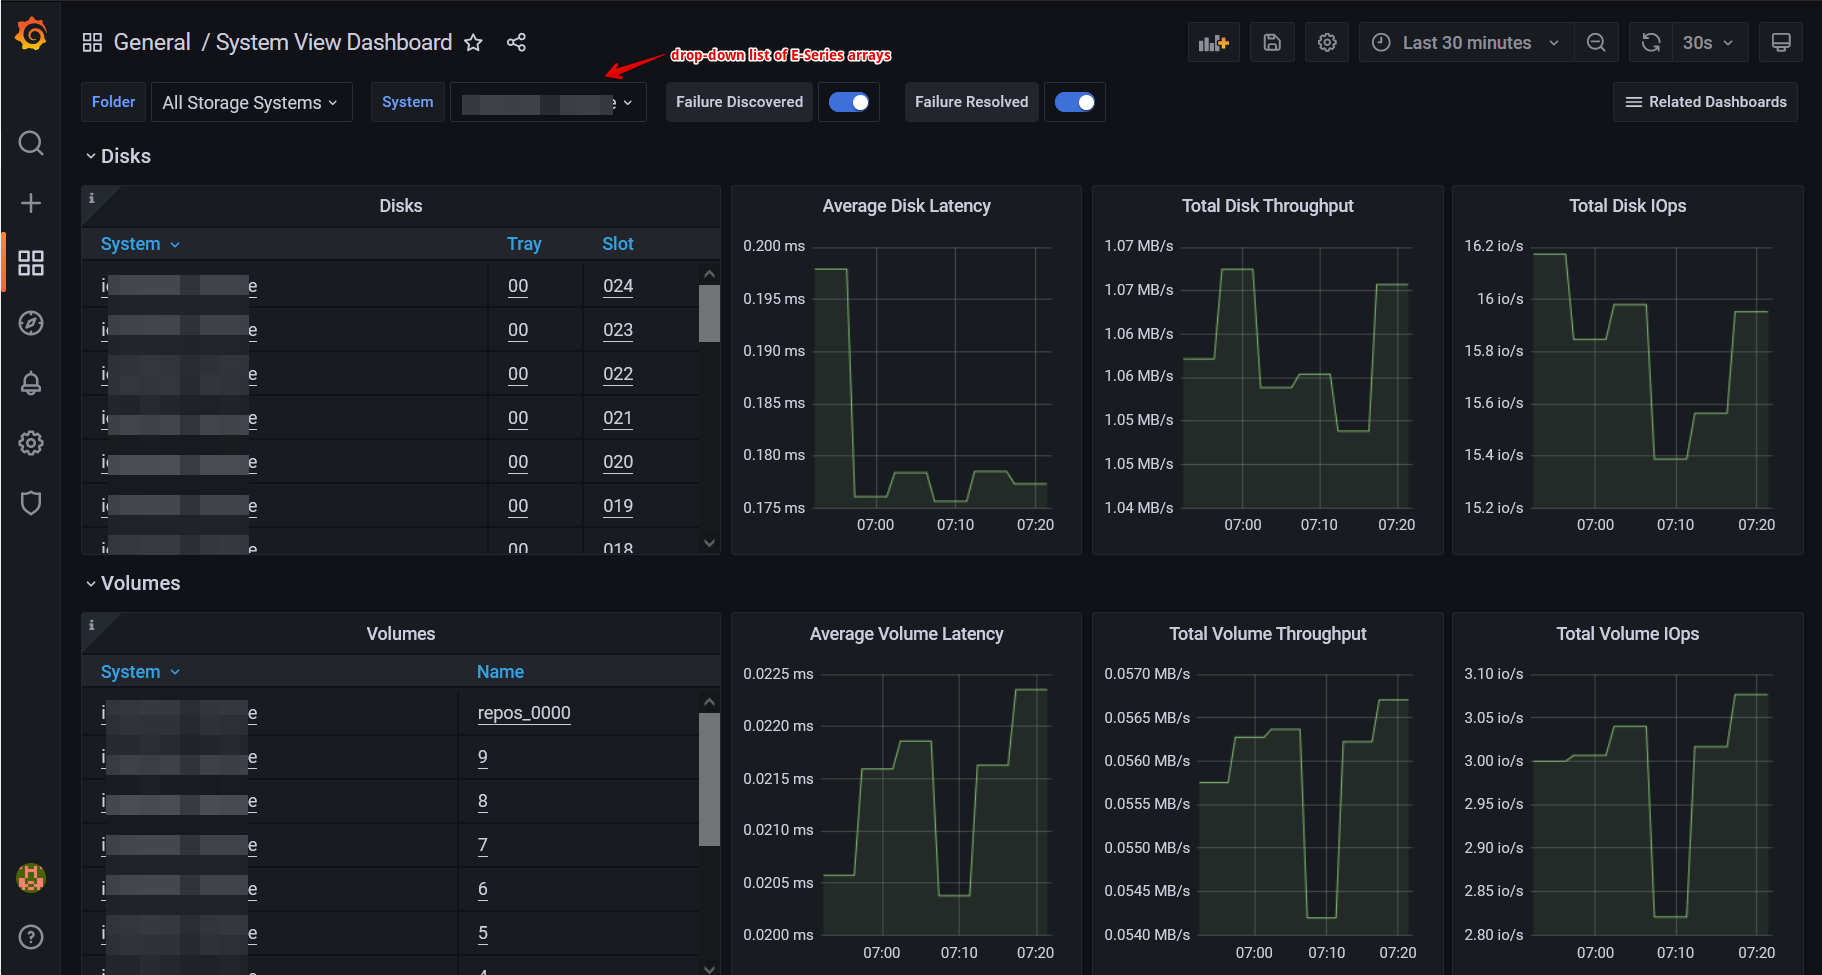
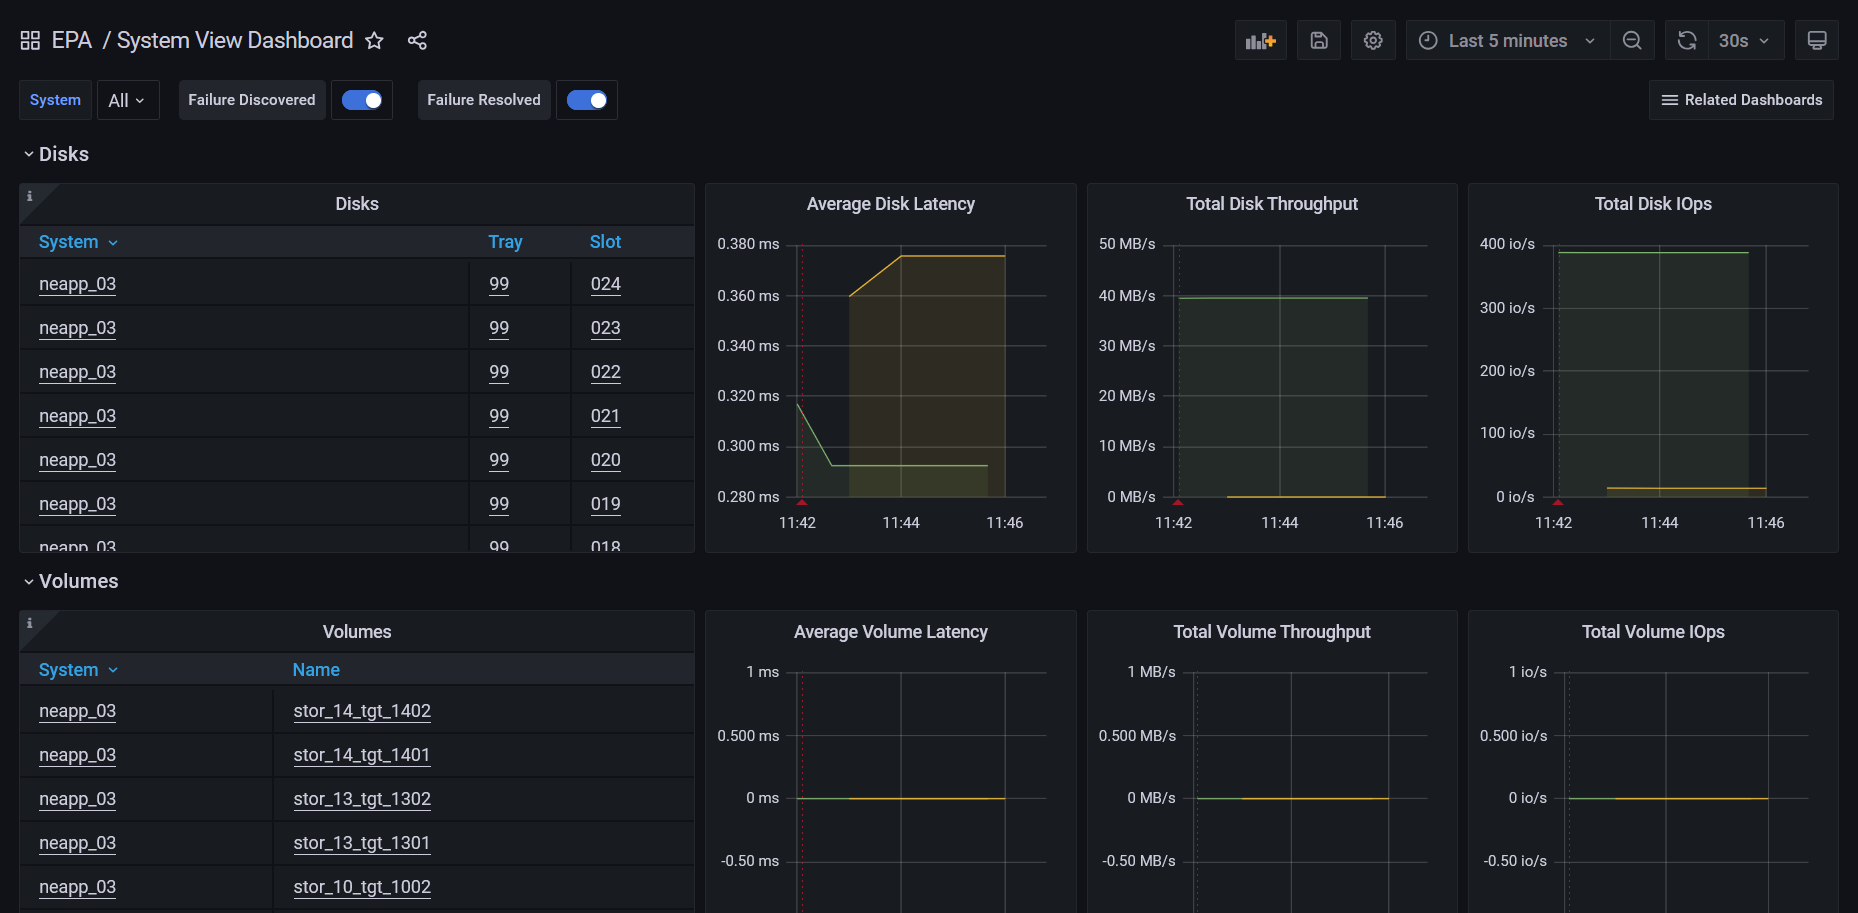
Move screenshots to separate file, refresh screenshots, finalize Changelog in README.md

diff --git a/README.md b/README.md
@@ -14,9 +14,8 @@
     - [Execute containerized collector.py](#execute-containerized-collectorpy)
     - [Adjust firewall settings for InfluxDB and Grafana ports](#adjust-firewall-settings-for-influxdb-and-grafana-ports)
     - [Add or remove a monitored array](#add-or-remove-a-monitored-array)
-    - [Update password of a monitor account](#update-password-of-a-monitor-account)
+    - [Update password of monitor account](#update-password-of-monitor-account)
     - [Grafana dashboards](#grafana-dashboards)
-  - [Sample Grafana screenshots](#sample-grafana-screenshots)
   - [FAQs](#faqs)
   - [Changelog](#changelog)
 
@@ -40,6 +39,8 @@ Each collector uses own credentials and can (but doesn't have to) write data to 
 - Interfaces
 - E-Series MEL events
 - Environmental (temperature and power consumption)
+
+Sample screenshots are available [here](./SCREENSHOTS.md).
 
 ## Requirements
 
@@ -95,7 +96,7 @@ services:
   collector-R26U25-EF600:
     image: epa/collector:${TAG}
     container_name: R26U25-EF600
-    mem_limit: 64m
+    mem_limit: 256m
     restart: unless-stopped
     logging:
       driver: "json-file"
@@ -116,6 +117,10 @@ services:
       # Optional: Create database and exit (true/1 = enable); remember to revert to 'false' after successful run
       # - CREATE_DB=false      
 ```
+
+Note that, if you create multiple collectors in the same docker-compose.yaml, only *one* of `DB_NAME` (as each collector may have it different) will be applied in Grafana Data Source configuration. If you're in this situation simply configure just one `DB_NAME` first (you don't have to do anything if you don't mind to have the first DB instance named `eseries`) and then use InfluxDB CLI or the related instructions from the FAQs (on how to do it from collector.py) to create another DB and another InfluxDB Data Source to Grafana. Then you can start all Collector containers. 
+
+You can also create additional database instances in InfluxDB from the CLI (instructions above), but you won't be able to if you modify Docker Compose to not expose InfluxDB externally. That's why it's easier to use the approach that runs collector.py in Docker - that will work for either Compose-internal or external InfluxDB.
 
 #### Deploy
 
@@ -160,13 +165,15 @@ Kubernetes users should skim through this page to get the idea how EPA works, an
 
 ### Execute containerized collector.py 
 
+If you want to run containerized collector as CLI program rather than service, try this and add correct parameters from `docker-compose.yaml`. 
+
 Mind the project/container name and version!
 
 ```sh
 docker run --rm --network eseries_perf_analyzer \
   --entrypoint python3 \
   epa/collector:3.4.0 collector.py -h
-# or, since we don't need to specify network to get help
+# or, if you just want to view help
 # docker run --rm epa/collector:3.4.0 -h
 ```
 
@@ -178,13 +185,20 @@ InfluxDB is accessible to external clients at 8086/tcp. The idea is to be able t
 
 ### Add or remove a monitored array
 
-Add another collector service (e.g. `collector-ef300c`) to `docker-compose.yaml`, build it and start it. You may use the same (existing) or own (new) InfluxDB database instance. Enter the `utils` container to create it. 
+Add another collector service (e.g. `collector-ef300c`) to `docker-compose.yaml`, build it and start it. You may use the same (existing) or own (new) InfluxDB database instance. Enter the `utils` container or use Collector to create it in advance. You may also just run collector with `--dbName` to have it created automatically.
 
-To remove a collector that monitors an array, run `docker compose down <collector-name>`, enter the `utils` container to drop the database (if not shared with other collectors).
+To remove a collector that monitors an array, run `docker compose down <collector-name>`, enter the `utils` container to drop the database - if it's not shared with other collectors.
 
-### Update password of a monitor account
+### Update password of monitor account
 
-To update the monitor account's password, simply change it in `./epa/docker-compose.yaml`, stop and then start the collector.
+To update a monitor account's password, simply change it in `./epa/docker-compose.yaml`, stop and then start the collector.
+
+```sh
+# in ./epa directory
+docker compose stop collector_ef600_01
+vim docker-compose.yaml
+docker compose start collector_ef600_01
+```
 
 ### Grafana dashboards
 
@@ -192,61 +206,28 @@ As you clone the repository and enter it, they are in `./epa/grafana-init/dashbo
 
 You can import them to your own Grafana instance. If you use the included `./epa/docker-compose.yaml`, the dashboards may/should be deployed by the `grafana-init` container automatically.
 
-## Sample Grafana screenshots
-
-Power (PSU) metrics are collected and stored in InfluxDB, but no dashboard has a panel with it. You may add it yourself.
-
-- System view
-
-![E-Series System](/images/sample-screenshot-epa-collector-system.png)
-
-- Array interfaces
-
-![E-Series Array Interfaces.png](/images/sample-screenshot-epa-collector-interfaces.png)
-
-This screenshot shows *aggregate* values for all arrays (useful in HPC environments where workloads span across multiple arrays). Further below there are other charts with individual metrics.
-
-- Physical disks
-
-![E-Series Physical Disks.png](/images/sample-screenshot-epa-collector-disks.png)
-
-- Physical disks - SSD wear level (%)
-
-![E-Series SSD Wear Level](/images/sample-screenshot-epa-collector-disks-ssd-wear-level.png)
-
-In order to collect this data, an E-Series array with a recent SANtricity OS (> 11.80, for example) and at least one SSD is required. Note that before v3.4.0, EPA collector used to fetch `percentEnduranceUsed` but now it fetches `spareBlocksRemainingPercent` because this one I've actually seen drop below 100% while the former one showed suspicious results in the samples I've seen.
-
-- Logical volumes
-
-![E-Series Volumes.png](/images/sample-screenshot-epa-collector-volumes.png)
-
-- Environmental indicators - total power consumption (W) and temperature (C)
-
-![E-Series Power and Temperature](/images/sample-screenshot-epa-collector-environmental.png)
-
-Like SSD wear level, these metrics are collected since v3.3.0, but you need to create new panels if you want to visualize them in Grafana. See the FAQs for query examples.
-
 ## FAQs
 
-Find them [here](FAQ.md) or check [Discussions](https://github.com/scaleoutsean/eseries-perf-analyzer/discussions) for questions that aren't in the FAQ document.
+Find them [here](./FAQ.md) or check [Discussions](https://github.com/scaleoutsean/eseries-perf-analyzer/discussions) for questions that aren't in the FAQ document.
 
 ## Changelog
 
-- 3.4.0 (August 23, 2025)
+- 3.4.0 (August 24, 2025)
   - Remove `dbmanager` container and its JSON configuration file (one less container to worry about)
-  - Add 'utils' container with InfluxDB v1 client for easy management of InfluxDB  
-  - Add some database-related functions to Collector to replace dbmanager's function
+  - Add "create database" feature to Collector to replace dbmanager
   - Minor update of version tags for various images (InfluxDB, Python, Alpine)
   - Docker Compose with InfluxDB 1.11.8 necessitates `user` key addition and change to InfluxDB volume ownership
-  - Minor update of version tag for Python and Alpine in Collector
   - Complete removal of the pre-fork bloat (epa/Makefile, epa/ansible epa/blackduck and the rest of it)
-  - Merge two docker-compose.yaml files into one (epa/docker-compose.yaml)
+  - Merge two docker-compose.yaml files into one (`epa/docker-compose.yaml`)
   - Add `grafana-init` container to replace what epa/ansible used to do in a more complicated way
-  - Remove "internal images" build feature - builds are much faster and easier to maintain
+  - Add `utils` container with InfluxDB v1 client for easy management of InfluxDB  
+  - Remove "internal images" build feature that epa/Makefile was using - builds are now much faster and easier to maintain
   - Small error handling improvements in EPA Collector noted in Issues
+  - Add checks and fixes for handling inconsistent API responses from SANtricity API that may have caused dropped inserts in InfluxDB in some situations
   - Multiple fixes related to built-in dashboards (Grafana data source set to `EPA`, `WSP` has been removed, dashboards can be imported without issues) 
-  - Prior versions use `urllib3` v1 (collector, dbmanager). v3.4.0 removes direct import of `urllib3` and lets `requests` deal with it (and requests now defaults to v2.5.0)
-  - See upgrade-related Q&A in the [FAQs](./FAQ.md). There are no new features or security fixes, so skip this version if your EPA is running fine
+  - Dashboards are now imported to "EPA" folder. Find them in Grafana with Dashboards > Browse
+  - Remove direct import of `urllib3` and lets `requests` deal with it (and requests now defaults to v2.5.0). Prior versions of EPA use `urllib3` v1 which has minor vulnerability that doesn't impact EPA which connects to trusted SANtricity API endpoint over trusted network
+  - See upgrade-related Q&A in the [FAQs](./FAQ.md). There are no new features and apart from the weak `urllib3` vulnerability there's no reason to install this if your EPA < 3.4.0 is running fine
 
 - 3.3.1 (June 1, 2024):
   - Dependency update (requests library)

diff --git a/SCREENSHOTS.md b/SCREENSHOTS.md
@@ -1,0 +1,28 @@
+# EPA Screenshots
+
+As you can see in `./epa/grafana-init/dashboards/`, there are four dashboards. The last one shown here I created at some point but didn't keep it, so you'd have to add a panel or dashboard to visualize those measurements.
+
+- **System**
+
+![EPA System dashboard](./images/sample-screenshot-epa-collector-system.png)
+
+- **Interfaces**
+
+![EPA Interfaces dashboard](./images/sample-screenshot-epa-collector-interfaces.png)
+
+- **Volumes** 
+
+![EPA Volumes top of dashboard](./images/sample-screenshot-epa-collector-volumes.png)
+
+- **Disks** (top) 
+
+![EPA Volumes bottom of dashboard](./images/sample-screenshot-epa-collector-disks.png)
+
+- **Disks** (bottom) - basic SSD life remaining visualization shows disks from two systems, one of which is older and its disks aren't at 100%
+
+![EPA Volumes bottom of dashboard](./images/sample-screenshot-epa-collector-disks-ssd-wear-level.png)
+
+- **Environmental** (not included)
+
+![EPA Volumes panel](./images/sample-screenshot-epa-collector-environmental.png)
+
